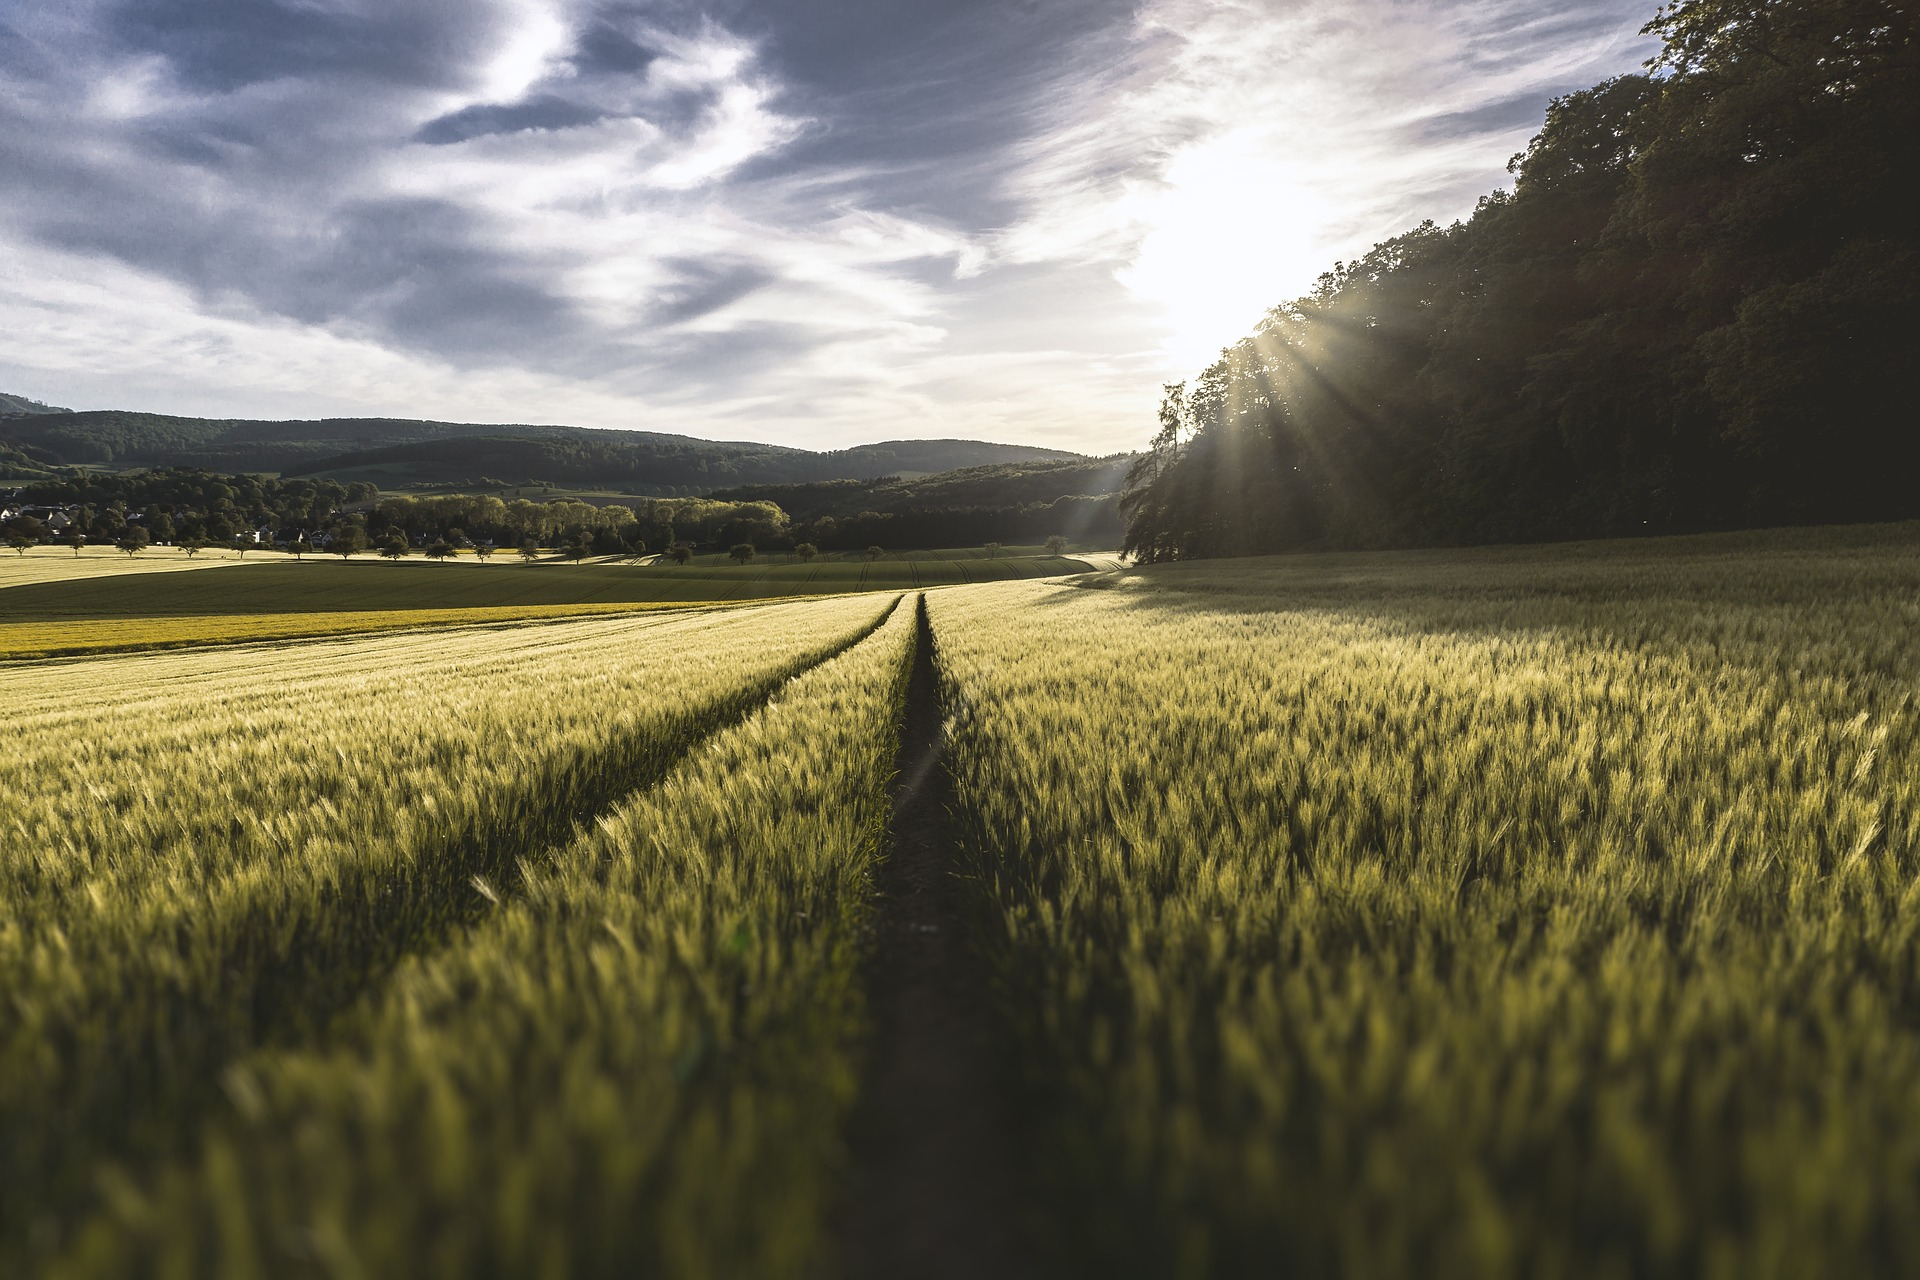
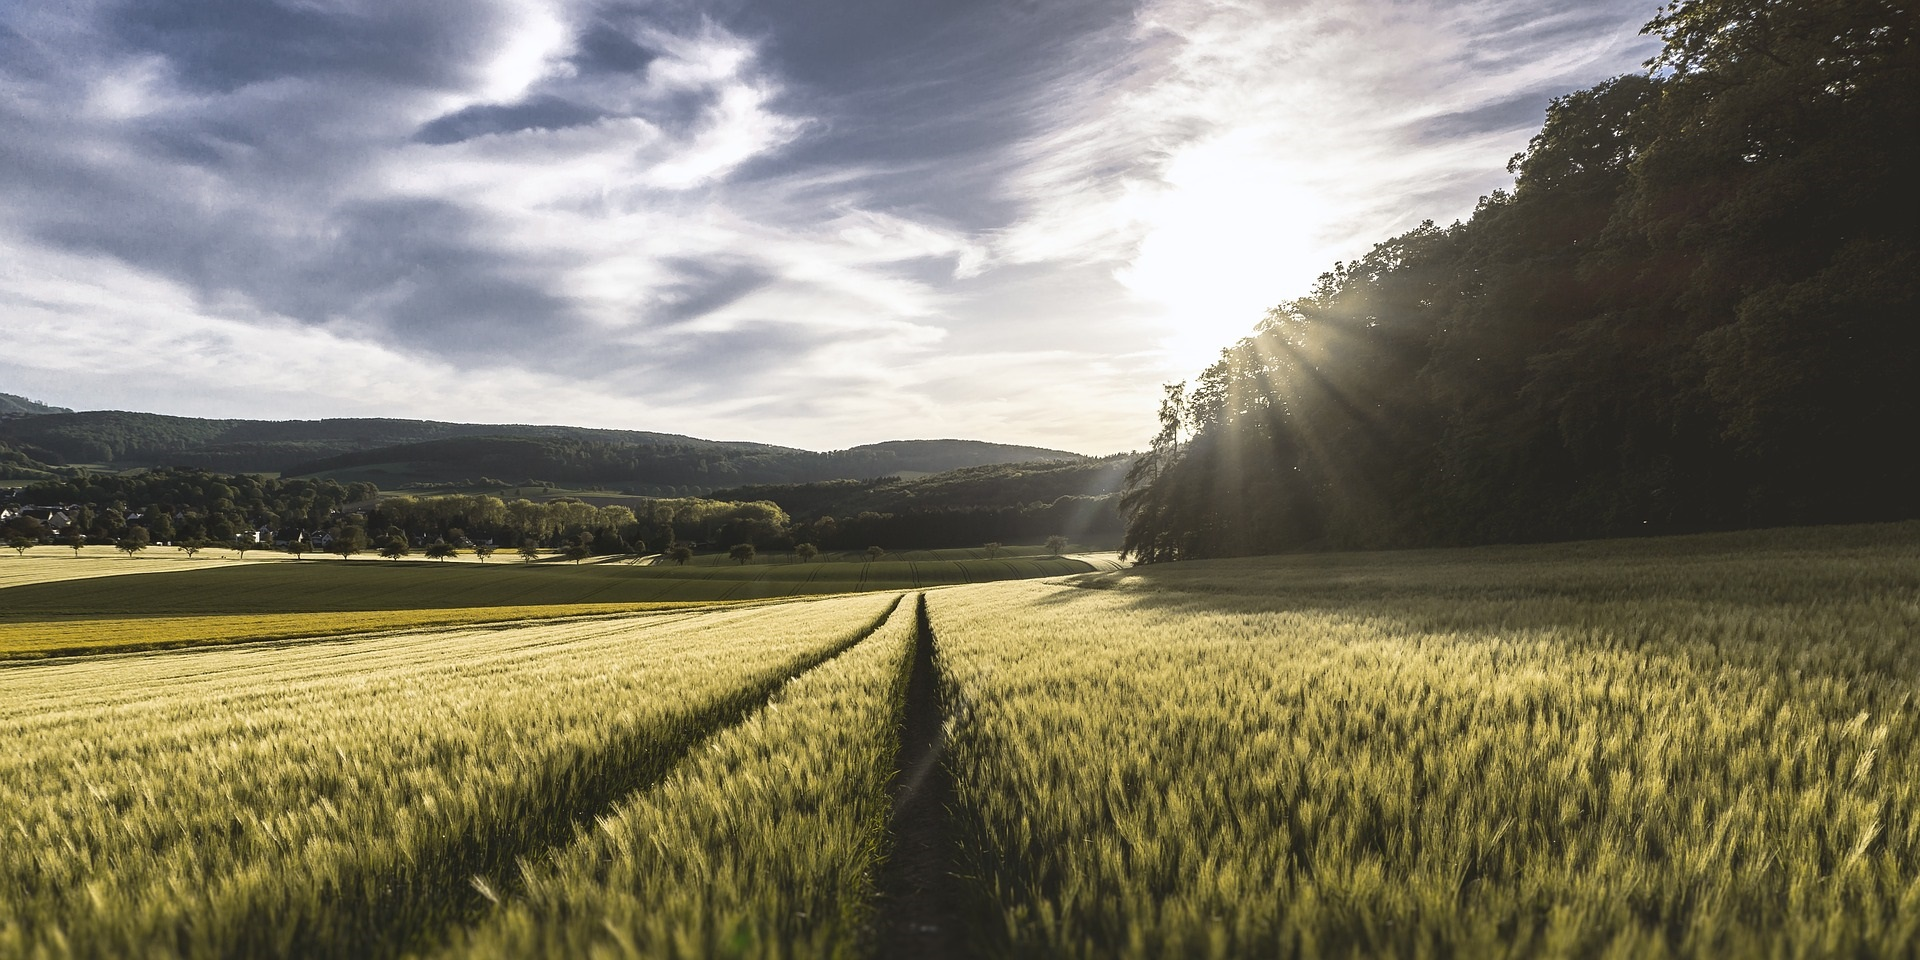
bez detalja

diff --git a/css/styles.css b/css/styles.css
@@ -66,4 +66,23 @@ div.navbar-collapse{
 /*CSS ZA INDEX*/
 .naslovna-slika{
     width:100%;
+    height:48em;
 }
+
+
+#home,#onama,#opg {
+    height:48em;
+    position:relative;
+}
+
+#onama{padding-top: 5em;}
+
+#opg{padding-top: 2em;}
+
+
+.naslovi{
+    text-align: center;
+}
+
+
+

diff --git a/index.php b/index.php
@@ -14,23 +14,34 @@ include 'head.php';
 
 
 <div id="home">  
-<img class="naslovna-slika" src="slike/jabuke.jpg" alt="naslovna stranica jabuka   " />
+<img class="naslovna-slika" src="slike/field-918534_1920.jpg" alt="naslovna stranica jabuka   " />
 </div>
 
 
+
+
+    <div class="container">
       <div class="naslovi" id="onama">
 <h1>O nama</h1>
           <br />
-<p class="tekst">Local Boost je stranica na kojoj možete financijski poduprijeti tuđe projekte, kao i drugi Vaše.</p>
-<p class="tekst">Kako biste postavili vlastiti projekt, potrebno je obaviti registraciju.</p>
-<p class="tekst">Nakon izrade korisničkog računa, možete se prijavljivati sa emailom i odabranom lozinkom.</p>
-<p class="tekst">Svaki prijavljeni korisnik ima mogućnost financiranja tuđih projekata jednostavnim klikom na uplatu.</p>
-<p class="tekst">Svaki prijavljeni korisnik ima mogućnost objaviti vlastiti projekt koji omogućuje drugima da ga financiraju.</p>
-<p class="tekst">Local Boost Vam pomaže u realizaciji raznovrsnih projekata i potiče Vaše ideje i napredak.</p>
+
           
       </div>
+      </div>
       
-      
+
+
+
+      <div class="container">
+      <div class="naslovi" id="opg">
+
+   <div class="col-lg-4 col-md-6 col-xs-12 col-centered">     
+          
+          
+          
+      </div>
+      </div>
+
 
       
   <form action="#" id="registracija">
